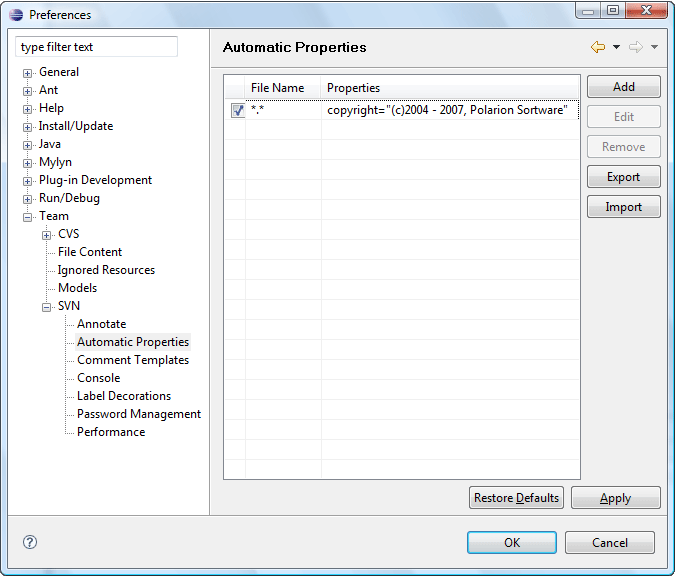
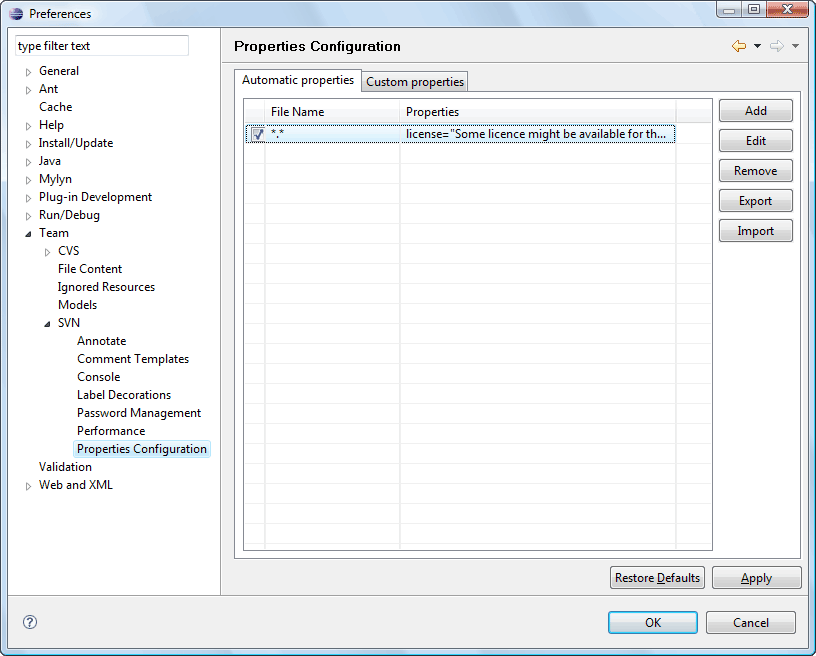
Updating help according to build changes.

Changed region(s): [[0.0, 0.0, 1.0, 1.0], [0.2489, 0.875, 0.28, 0.9062]]

diff --git a/trunk/org.eclipse.team.svn.help/preferences/pref_svn.html b/trunk/org.eclipse.team.svn.help/preferences/pref_svn.html
@@ -52,6 +52,12 @@
 				<td class="header" align ="center" valign="center">Default</td>
 			</tr>
 			<tr>
+				<td align ="center" valign="center">Detect deleted projects before update</td>
+				<td align ="center" valign="center">Specifies if the plug-in should detect if the project the user is trying to update have been
+				removed from the repository.</td>
+				<td align ="center" valign="center">Enabled</td>
+			</tr>
+			<tr>
 				<td align ="center" valign="center">Check the new resources in the commit dialog</td>
 				<td align ="center" valign="center">Specifies if the plug-in should check the new resources in the commit dialog.</td>
 				<td align ="center" valign="center">Enabled</td>
@@ -79,8 +85,8 @@
 		</table><br/>
 		This is how <i>'General'</i> tab group looks like:
 		<br/><br/><img border="0" src="../images/pref_general.png" alt="General tab group"/><br/><br/>
-		<b>SVN Client</b><br/>
-		<p>Here the user can choose the SVN&reg; client he wants to use.</p>
+		<b>SVN Connector</b><br/>
+		<p>Here the user can choose the SVN&reg; connector he wants to use.</p>
 		<table cellpadding="5" cellspacing="0" border="1" width="100%">
 			<tr>
 				<td class="header" align ="center" valign="center">Option</td>
@@ -88,18 +94,18 @@
 				<td class="header" align ="center" valign="center">Default</td>
 			</tr>
 			<tr>
-				<td align ="center" valign="center">SVN Client</td>
-				<td align ="center" valign="center">Allows to choose witch SVN client to use.</td>
+				<td align ="center" valign="center">SVN Connector</td>
+				<td align ="center" valign="center">Allows to choose witch SVN connector to use.</td>
 				<td align ="center" valign="center">Subversive Default</td>
 			</tr>
 			<tr>
-				<td align ="center" valign="center">Use interactive merge</td>
-				<td align ="center" valign="center">When chosen Subversive allows to use Synchronize View features during the merging (experimental feature).</td>
+				<td align ="center" valign="center">Use SVN Merge View</td>
+				<td align ="center" valign="center">When chosen Subversive allows to use Synchronize View features during the merging.</td>
 				<td align ="center" valign="center">Disabled</td>
 			</tr>
 		</table><br/>
-		This is how <i>'SVN Client'</i> tab group looks like:
-		<br/><br/><img border="0" src="../images/pref_client.png" alt="SVN Client tab group"/><br/><br/>
+		This is how <i>'SVN Connector'</i> tab group looks like:
+		<br/><br/><img border="0" src="../images/pref_client.png" alt="SVN Connector tab group"/><br/><br/>
 		<b>Repository</b><br/>
 		<p>Here the user can configure repository structure.</p>
 		<table cellpadding="1" cellspacing="0" border="0">
@@ -186,18 +192,8 @@
 				<td class="header" align ="center" valign="center">Default</td>
 			</tr>
 			<tr>
-				<td align ="center" valign="center">Report revision change for folders</td>
-				<td align ="center" valign="center">Allows plug-into notify user about folder's revision change in 'Synchronize View'.</td>
-				<td align ="center" valign="center">Disabled</td>
-			</tr>
-			<tr>
 				<td align ="center" valign="center">Show synchronize info contiguous</td>
 				<td align ="center" valign="center">Specifies if the synchronization info will be get in series (Enabled) or in whole (Disabled).</td>
-				<td align ="center" valign="center">branches</td>
-			</tr>
-			<tr>
-				<td align ="center" valign="center">Tags</td>
-				<td align ="center" valign="center">Default repository root name for tags.</td>
 				<td align ="center" valign="center">Enabled</td>
 			</tr>
 			<tr>

diff --git a/trunk/org.eclipse.team.svn.help/preferences/pref_autoprops.html b/trunk/org.eclipse.team.svn.help/preferences/pref_autoprops.html
@@ -1,7 +1,7 @@
 <!DOCTYPE html PUBLIC "-//W3C//DTD HTML 4.0 Transitional//EN">
 <html>
 <head>
-	<title>Automatic Properties</title>
+	<title>Properties Configuration</title>
 	<meta name="copyright"  content="Copyright (c) 2005-2007 Polarion Software. All rights reserved. This page is provided under the terms of the Eclipse Public License v1.0 which accompanies this distribution, and is available at http://www.eclipse.org/legal/epl-v10.html Contributors: Alexander Gurov."/>
 	<LINK REL="STYLESHEET" HREF="../book.css" CHARSET="ISO-8859-1" TYPE="text/css"/>
 	<script language="JavaScript" src="PLUGINS_ROOT/org.eclipse.help/livehelp.js"></script>
@@ -18,13 +18,14 @@
 			</td>
 		</tr>
 	</table>
-	<h2>Automatic Properties</h2>
+	<h2>Properties Configuration</h2>
 	<p>
-		These preferences can be changed on <a class="command-link" href='javascript:executeCommand("org.eclipse.ui.window.preferences(preferencePageId=org.eclipse.team.svn.ui.SVNTeamAutoPropsPreferences)")'>
+		These preferences can be changed on <a class="command-link" href='javascript:executeCommand("org.eclipse.ui.window.preferences(preferencePageId=org.eclipse.team.svn.ui.SVNTeamPropsPreferences)")'>
 			<img src="PLUGINS_ROOT/org.eclipse.help/command_link.png"/>
-			<i>'Team>SVN>Automatic Properties'</i>
-		</a> properties page. On this page user can Import, Export, Add, Remove and Edit automatic properties for specified files. To do described actions use appropriate buttons.
-	</p>
+			<i>'Team>SVN>Properties Configuration'</i>
+		</a> properties page.</p>
+	<b>Automatic properties</b>	
+	<p>On this tab group user can Import, Export, Add, Remove and Edit automatic properties for specified files. To do described actions use appropriate buttons.</p>
 	<table cellpadding="1" cellspacing="0" border="0">
 		<tr>
 			<td valign="top" align="right">
@@ -43,8 +44,14 @@
 			</td>
 		</tr>
 	</table>
-	This is how <i>'Automatic Properties'</i> properties page looks like:
-	<br/><br/><img border="0" src="../images/pref_autoprops.png" alt="Automatic Properties properties page"/>
+	This is how <i>'Automatic properties'</i> tab group looks like:
+	<br/><br/><img border="0" src="../images/pref_autoprops.png" alt="Automatic Properties tab group"/>
+	<br/><br/>
+	<b>Custom properties</b>	
+	<p>On this tab group the user can Add, Remove and Edit custom properties to be shown in a combo of an <i>'Add property'</i> dialog. There is a probability for the user to enter property name, its description and
+	a regular expression to be used for validating property before setting it.</p>
+	This is how <i>'Custom properties'</i> tab group looks like:
+	<br/><br/><img border="0" src="../images/pref_customprops.png" alt="Custom Properties tab group"/>
 	<br/>
 	<img border="0" src="../images/rel_tops.png" alt="Related topics"/>
 	<br/>

diff --git a/trunk/org.eclipse.team.svn.help/teamSupport/SVNaction/patch.html b/trunk/org.eclipse.team.svn.help/teamSupport/SVNaction/patch.html
@@ -22,9 +22,9 @@
 	<p>Patch is an information on differences of revisions (remote patch creating) or differences between workspace copy and base revision. The user can save this info to clipboard or to specified local file system file or project file. To perform the action click on the <i>'Team>Create Patch...'</i> menu item of the resource pop-up menu <i>'Create Patch...'</i> menu item of the <i>'SVN main menu group'</i>. The wizard will help the user to perform the operation.</p>
 	<p>If the user is creating a remote patch the first page of the wizard provides a probability to choose a revision number to create patch comparatively to:</p>
 	<img border = "0" src="../../images/create_patch.png" alt="Create patch wizard"/>
-	<p>The second (first) page of the wizards offers the user to choose, where does he want to save patch information:</p>
+	<p>The second (first) page of the wizards offers the user to choose, where does he want to save patch information and if the patch is local choose the resources to be included into:</p>
 	<img border = "0" src="../../images/create_patch2.png" alt="Create patch wizard"/>
-	<p>The third (second) and the last page of the wizard allows the user to choose what information shall the patch contain:</p>
+	<p>The third (second) and the last page of the wizard allows the user to choose what information shall the patch contain and a root or the patch:</p>
 	<img border = "0" src="../../images/create_patch3.png" alt="Create patch wizard"/>
 	<p>Later created patch may be applied to another revision of the resource.</p>
 	<p><b>Applying patch</b></p>

diff --git a/trunk/org.eclipse.team.svn.help/teamSupport/new_location_wiz.html b/trunk/org.eclipse.team.svn.help/teamSupport/new_location_wiz.html
@@ -83,9 +83,9 @@
 			<td class="header" align ="center" valign="center">Default</td>
 		</tr>
 		<tr>
-			<td align ="center" valign="center">Enable Structure  Detection</td>
+			<td align ="center" valign="center">Enable Structure Detection</td>
 			<td align ="center" valign="center">Specifies if the Subversion&reg; should detect the structure of repository.</td>
-			<td align ="center" valign="center">Enable</td>
+			<td align ="center" valign="center">Enabled</td>
 		</tr>
 		<tr>
 			<td align ="center" valign="center">Trunk</td>
@@ -101,6 +101,31 @@
 			<td align ="center" valign="center">Tags</td>
 			<td align ="center" valign="center">Specifies tags name to use for structure detection.</td>
 			<td align ="center" valign="center">tags</td>
+		</tr>
+		<tr>
+			<td align ="center" valign="center">Override author name with represented below</td>
+			<td align ="center" valign="center">Specifies if the author name should be overridden for repository affecting operations.</td>
+			<td align ="center" valign="center">Disabled</td>
+		</tr>
+	</table>
+	</br>
+	<table cellpadding="1" cellspacing="0" border="0">
+		<tr>
+			<td valign="top" align="left">
+				<p align="left">
+					<i>
+						<b>Note:</b>
+					</i>
+				</p>
+			</td>
+			<td valign="top">
+				<p>
+					<i>
+						Please pay special attention that <b>pre-revprop-change</b> hook should be implemented for the repository and should allow to change
+						"svn:author" revision property. 
+					</i>
+				</p>
+			</td>
 		</tr>
 	</table>
 	<p>This is how <i>'Advanced'</i> tab group looks like:</p>

diff --git a/trunk/org.eclipse.team.svn.help/teamSupport/SVNaction/set_props.html b/trunk/org.eclipse.team.svn.help/teamSupport/SVNaction/set_props.html
@@ -18,7 +18,8 @@
 		</tr>
 	</table>
 <h3>Setting properties</h3>
-	<p>To set SVN&reg; Properties click on the <i>'Team>Set Property...'</i> menu item of the resource pop-up menu <i>'Set Property...'</i> menu item of the <i>'SVN main menu group'</i>. The dialog provides a probability to choose a SVN&reg; Property name from a combo-box and type or get from file a property value.</p>
+	<p>To set SVN&reg; Properties click on the <i>'Team>Set Property...'</i> menu item of the resource pop-up menu <i>'Set Property...'</i> menu item of the <i>'SVN main menu group'</i>. The dialog provides a probability to choose a SVN&reg; Property name from a combo-box and type or get from file a property value.
+	For standard svn, tsvn and bugtraq properties validation is enabled by default, for custom properties the user can enter a validation regular expression on the appropriate preferences page.</p>
 	<p>This is how the <i>'Set Property Dialog'</i> looks like:</p>
 	<img border = "0" src="../../images/add_prop.png" alt="Set Property dialog"/>
 	<br/>
@@ -28,6 +29,6 @@
 	<br/>
 	<a href="../../teamSupport/props_view.html">SVN Properties View</a>
 	<br/>
-	<a href="../../preferences/pref_autoprops.html">Automatic Properties</a>
+	<a href="../../preferences/pref_autoprops.html">Properties Configuration</a>
 </body>
 </html>

diff --git a/trunk/org.eclipse.team.svn.help/teamSupport/SVNaction/merge.html b/trunk/org.eclipse.team.svn.help/teamSupport/SVNaction/merge.html
@@ -31,12 +31,15 @@
 			<td valign="top">
 				<p>
 					<i>
-						If there were some conflics during the merge operation cycle SVN&reg; merges what it can and notify the user about the conflict. Then three file are created: 'name'.tmp (copy of the user's local file before update), 'name'.tmp2 (copy of the first revision file) and 'name'.tmp3 (copy of the second revision file). So the edit conflicts action must be run to resolve conflicts.
+						If there were some conflicts during the merge operation cycle SVN&reg; merges what it can and notify the user about the conflict. Then three file are created: 'name'.tmp (copy of the user's local file before update), 'name'.tmp2 (copy of the first revision file) and 'name'.tmp3 (copy of the second revision file). So the edit conflicts action must be run to resolve conflicts.
 					</i>
 				</p>
 			</td>
 		</tr>
 	</table>
+	<p>If the option of interactive merge is enabled then the merge results preview is shown in the <i>'SVN Merge View'</i>. The incoming and
+	maybe conflicting changes are shown there.</p>
+	<img border="0" src="../../images/merge_view.png" alt="Related topics"/></br>
 	<img border="0" src="../../images/rel_tops.png" alt="Related topics"/>
 	<br/>
 	<a href="../../teamSupport/merge_dialog.html">SVN Merge Dialog</a>

diff --git a/trunk/org.eclipse.team.svn.help/preferences/pref_label_decors.html b/trunk/org.eclipse.team.svn.help/preferences/pref_label_decors.html
@@ -43,20 +43,13 @@
 				</td>
 			</tr>
 		</table>
-		<table cellpadding="5" cellspacing="0" border="1" width="100%">
-			<tr>
-				<td class="header" align ="center" valign="center">Option</td>
-			<td class="header" align ="center" valign="center">Description</td>
-			<td class="header" align ="center" valign="center">Default</td>
-		</tr>
-		<tr>
-			<td align ="center" valign="center">Enable font and color decorations</td>
-			<td align ="center" valign="center">Specifies either font and color decorations for a Package Explorer enabled or not.</td>
-			<td align ="center" valign="center">Disabled</td>
-		</tr>
-	</table><br/>
+		</br>
 	This is how <i>'Label Decorations'</i> properties page looks like:
 	<br/><br/><img border="0" src="../images/pref_label_decors.png" alt="Label Decorations properties page"/>
+	<br/>
+	<img border="0" src="../images/pref_label_decors2.png" alt="Label Decorations properties page"/>
+	<br/>
+	<img border="0" src="../images/pref_label_decors3.png" alt="Label Decorations properties page"/>
 	<br/>
 	<img border="0" src="../images/rel_tops.png" alt="Related topics"/>
 	<br/>

diff --git a/trunk/org.eclipse.team.svn.help/index.html b/trunk/org.eclipse.team.svn.help/index.html
@@ -48,13 +48,12 @@
 		<ul>
 		<li><a href="preferences/pref_svn.html">SVN</a></li>
 		<li><a href="preferences/pref_annotate.html">Annotate</a></li>
-		<li><a href="preferences/pref_autoprops.html">Automatic Properties</a></li>
-
 		<li><a href="preferences/pref_comments.html">Comment Templates</a></li>
 		<li><a href="preferences/pref_console.html">Console</a></li>
 		<li><a href="preferences/pref_label_decors.html">Label Decorations</a></li>
 		<li><a href="preferences/pref_pass.html">Password Management</a></li>
 		<li><a href="preferences/pref_performance.html">Performance</a></li>
+		<li><a href="preferences/pref_autoprops.html">Properties Configuration</a></li>
 		</ul>
 
 		</li>

diff --git a/trunk/org.eclipse.team.svn.help/prefs.html b/trunk/org.eclipse.team.svn.help/prefs.html
@@ -33,8 +33,6 @@
 		<br/>
 		<a href="preferences/pref_annotate.html">Annotate</a>
 		<br/>
-		<a href="preferences/pref_autoprops.html">Automatic Properties</a>
-		<br/>
 		<a href="preferences/pref_comments.html">Comment Templates</a>
 		<br/>
 		<a href="preferences/pref_console.html">Console</a>
@@ -44,5 +42,7 @@
 		<a href="preferences/pref_pass.html">Password Management</a>
 		<br/>
 		<a href="preferences/pref_performance.html">Performance</a>
+		<br/>
+		<a href="preferences/pref_autoprops.html">Properties Configuration</a>
 	</body>
 </html>
